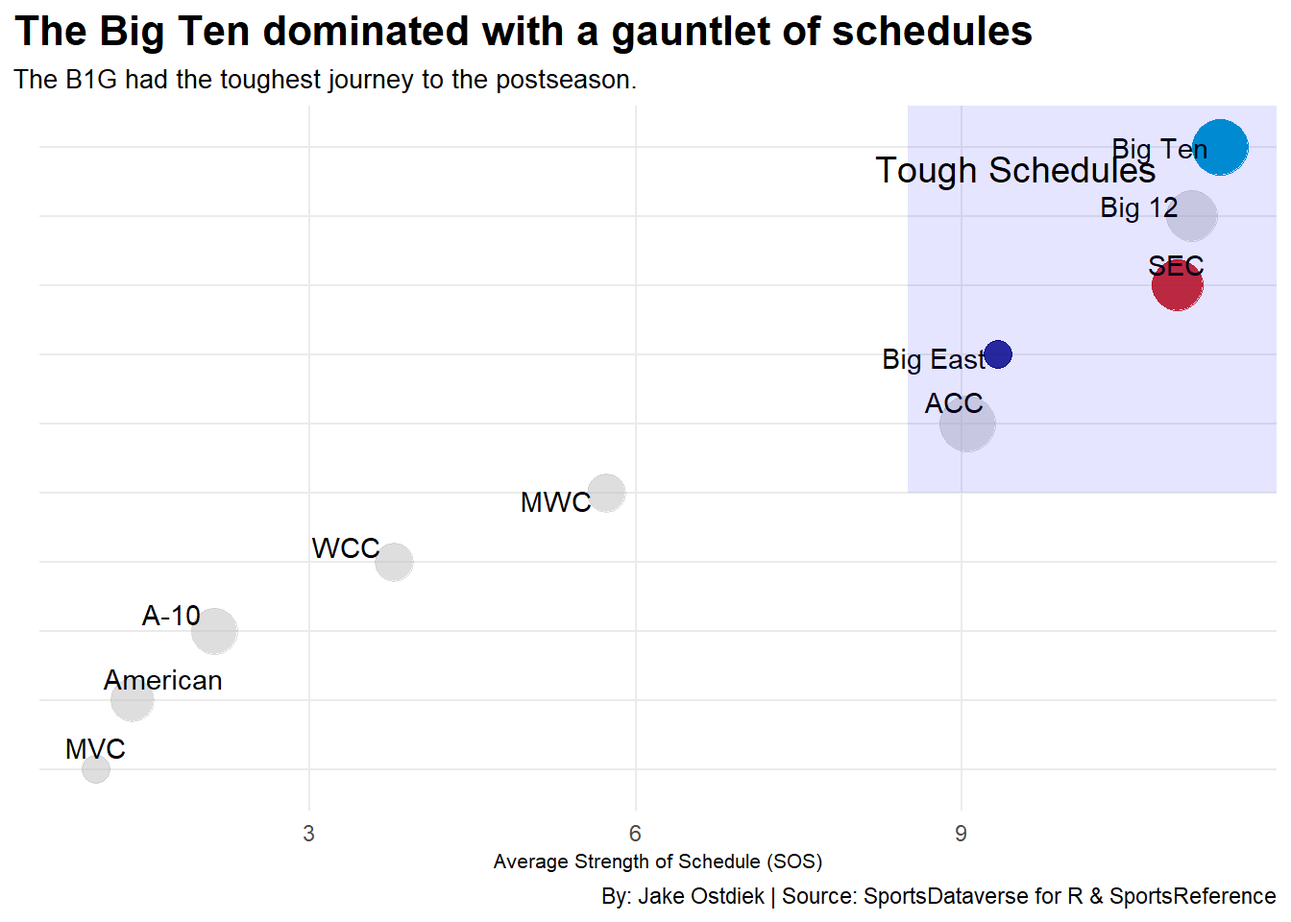
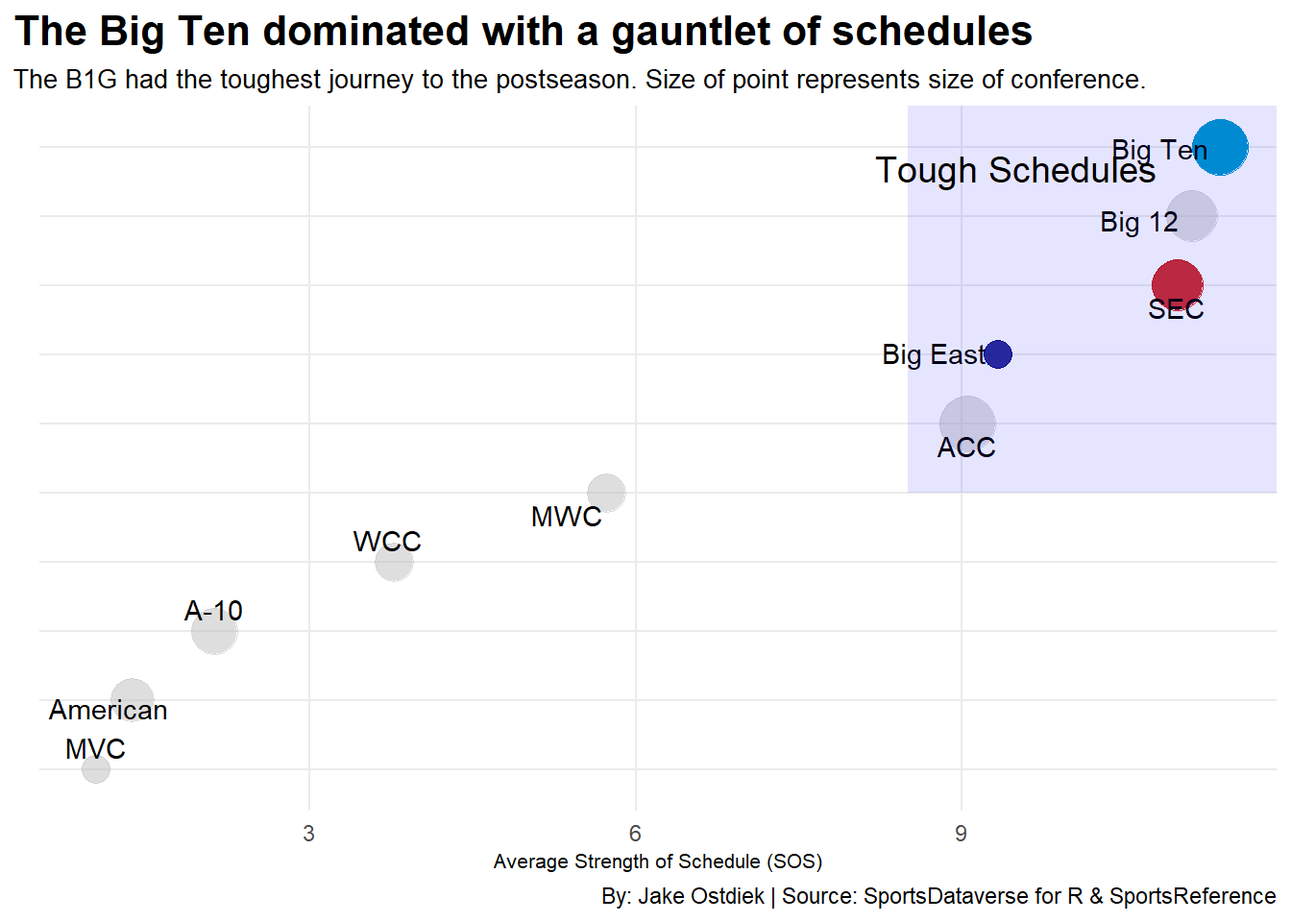
updating the charts

diff --git a/posts/big-ten-basketball-success-2026/index.html b/posts/big-ten-basketball-success-2026/index.html
@@ -555,7 +555,7 @@ pre > code.sourceCode > span > a:first-child::before { text-decoration: underlin
 <span id="cb2-64"><a href="#cb2-64" aria-hidden="true" tabindex="-1"></a>    <span class="fu">aes</span>(<span class="at">x=</span><span class="fl">9.5</span>, <span class="at">y=</span><span class="fl">9.7</span>, <span class="at">label=</span><span class="st">"Tough Schedules"</span>), <span class="at">size=</span><span class="dv">5</span>) <span class="sc">+</span></span>
 <span id="cb2-65"><a href="#cb2-65" aria-hidden="true" tabindex="-1"></a>  <span class="fu">labs</span>(</span>
 <span id="cb2-66"><a href="#cb2-66" aria-hidden="true" tabindex="-1"></a>    <span class="at">title=</span><span class="st">"The Big Ten dominated with a gauntlet of schedules"</span>,</span>
-<span id="cb2-67"><a href="#cb2-67" aria-hidden="true" tabindex="-1"></a>    <span class="at">subtitle=</span><span class="st">"The B1G had the toughest journey to the postseason."</span>,</span>
+<span id="cb2-67"><a href="#cb2-67" aria-hidden="true" tabindex="-1"></a>    <span class="at">subtitle=</span><span class="st">"The B1G had the toughest journey to the postseason. Size of point represents size of conference."</span>,</span>
 <span id="cb2-68"><a href="#cb2-68" aria-hidden="true" tabindex="-1"></a>    <span class="at">x=</span><span class="st">"Average Strength of Schedule (SOS)"</span>,</span>
 <span id="cb2-69"><a href="#cb2-69" aria-hidden="true" tabindex="-1"></a>    <span class="at">y=</span><span class="st">""</span>,</span>
 <span id="cb2-70"><a href="#cb2-70" aria-hidden="true" tabindex="-1"></a>    <span class="at">caption =</span> <span class="st">"By: Jake Ostdiek | Source: SportsDataverse for R &amp; SportsReference"</span></span>
@@ -699,7 +699,7 @@ pre > code.sourceCode > span > a:first-child::before { text-decoration: underlin
 <span id="cb3-110"><a href="#cb3-110" aria-hidden="true" tabindex="-1"></a>  <span class="fu">geom_col</span>(</span>
 <span id="cb3-111"><a href="#cb3-111" aria-hidden="true" tabindex="-1"></a>    <span class="at">data =</span> conversion_data <span class="sc">|&gt;</span> <span class="fu">drop_na</span>(conv_64_32),</span>
 <span id="cb3-112"><a href="#cb3-112" aria-hidden="true" tabindex="-1"></a>    <span class="fu">aes</span>(<span class="at">x =</span> r32_count, <span class="at">y =</span> <span class="fu">reorder</span>(Conf, r32_count)), </span>
-<span id="cb3-113"><a href="#cb3-113" aria-hidden="true" tabindex="-1"></a>    <span class="at">fill =</span> <span class="st">"grey"</span>,</span>
+<span id="cb3-113"><a href="#cb3-113" aria-hidden="true" tabindex="-1"></a>    <span class="at">fill =</span> <span class="st">"cornsilk4"</span>,</span>
 <span id="cb3-114"><a href="#cb3-114" aria-hidden="true" tabindex="-1"></a>    <span class="at">alpha =</span> <span class="fl">0.8</span>) <span class="sc">+</span></span>
 <span id="cb3-115"><a href="#cb3-115" aria-hidden="true" tabindex="-1"></a>  <span class="fu">geom_col</span>(</span>
 <span id="cb3-116"><a href="#cb3-116" aria-hidden="true" tabindex="-1"></a>    <span class="at">data =</span> conversion_data_bigten <span class="sc">|&gt;</span> <span class="fu">drop_na</span>(conv_64_32),</span>
@@ -709,87 +709,104 @@ pre > code.sourceCode > span > a:first-child::before { text-decoration: underlin
 <span id="cb3-120"><a href="#cb3-120" aria-hidden="true" tabindex="-1"></a>  <span class="fu">geom_text</span>(</span>
 <span id="cb3-121"><a href="#cb3-121" aria-hidden="true" tabindex="-1"></a>    <span class="at">data =</span> conversion_data <span class="sc">|&gt;</span> <span class="fu">drop_na</span>(conv_64_32),</span>
 <span id="cb3-122"><a href="#cb3-122" aria-hidden="true" tabindex="-1"></a>    <span class="fu">aes</span>(<span class="at">x =</span> r32_count, <span class="at">y =</span> <span class="fu">reorder</span>(Conf, r32_count),</span>
-<span id="cb3-123"><a href="#cb3-123" aria-hidden="true" tabindex="-1"></a>    <span class="at">label =</span> <span class="fu">paste0</span>(<span class="fu">round</span>(conv_64_32, <span class="dv">1</span>), <span class="st">"%"</span>)), <span class="at">hjust =</span> <span class="sc">-</span>.<span class="dv">2</span>) <span class="sc">+</span></span>
+<span id="cb3-123"><a href="#cb3-123" aria-hidden="true" tabindex="-1"></a>    <span class="at">label =</span> <span class="fu">paste0</span>(<span class="fu">round</span>(conv_64_32, <span class="dv">1</span>), <span class="st">"%"</span>)), <span class="at">hjust =</span> <span class="fl">1.2</span>, <span class="at">color =</span> <span class="st">"white"</span>, <span class="at">size =</span> <span class="dv">3</span>) <span class="sc">+</span></span>
 <span id="cb3-124"><a href="#cb3-124" aria-hidden="true" tabindex="-1"></a>  <span class="fu">theme_minimal</span>() <span class="sc">+</span></span>
 <span id="cb3-125"><a href="#cb3-125" aria-hidden="true" tabindex="-1"></a>  <span class="fu">labs</span>(</span>
 <span id="cb3-126"><a href="#cb3-126" aria-hidden="true" tabindex="-1"></a>    <span class="at">title =</span> <span class="st">"Round of 64 to Round of 32"</span>,</span>
-<span id="cb3-127"><a href="#cb3-127" aria-hidden="true" tabindex="-1"></a>    <span class="at">x =</span> <span class="st">""</span>,</span>
-<span id="cb3-128"><a href="#cb3-128" aria-hidden="true" tabindex="-1"></a>    <span class="at">y =</span> <span class="st">""</span>)</span>
-<span id="cb3-129"><a href="#cb3-129" aria-hidden="true" tabindex="-1"></a>  </span>
-<span id="cb3-130"><a href="#cb3-130" aria-hidden="true" tabindex="-1"></a></span>
-<span id="cb3-131"><a href="#cb3-131" aria-hidden="true" tabindex="-1"></a>conv2 <span class="ot">&lt;-</span> <span class="fu">ggplot</span>() <span class="sc">+</span></span>
-<span id="cb3-132"><a href="#cb3-132" aria-hidden="true" tabindex="-1"></a>  <span class="fu">geom_col</span>(</span>
-<span id="cb3-133"><a href="#cb3-133" aria-hidden="true" tabindex="-1"></a>    <span class="at">data =</span> conversion_data <span class="sc">|&gt;</span> <span class="fu">drop_na</span>(conv_32_16),</span>
-<span id="cb3-134"><a href="#cb3-134" aria-hidden="true" tabindex="-1"></a>    <span class="fu">aes</span>(<span class="at">x =</span> s16_count, <span class="at">y =</span> <span class="fu">reorder</span>(Conf, s16_count)), </span>
-<span id="cb3-135"><a href="#cb3-135" aria-hidden="true" tabindex="-1"></a>    <span class="at">fill =</span> <span class="st">"grey"</span>,</span>
-<span id="cb3-136"><a href="#cb3-136" aria-hidden="true" tabindex="-1"></a>    <span class="at">alpha =</span> <span class="fl">0.8</span>) <span class="sc">+</span></span>
-<span id="cb3-137"><a href="#cb3-137" aria-hidden="true" tabindex="-1"></a>  <span class="fu">geom_col</span>(</span>
-<span id="cb3-138"><a href="#cb3-138" aria-hidden="true" tabindex="-1"></a>    <span class="at">data =</span> conversion_data_bigten <span class="sc">|&gt;</span> <span class="fu">drop_na</span>(conv_32_16),</span>
-<span id="cb3-139"><a href="#cb3-139" aria-hidden="true" tabindex="-1"></a>    <span class="fu">aes</span>(<span class="at">x =</span> s16_count, <span class="at">y =</span> <span class="fu">reorder</span>(Conf, s16_count)),</span>
-<span id="cb3-140"><a href="#cb3-140" aria-hidden="true" tabindex="-1"></a>    <span class="at">fill =</span> <span class="st">"deepskyblue3"</span>,</span>
-<span id="cb3-141"><a href="#cb3-141" aria-hidden="true" tabindex="-1"></a>    <span class="at">alpha =</span> <span class="fl">0.8</span>) <span class="sc">+</span></span>
-<span id="cb3-142"><a href="#cb3-142" aria-hidden="true" tabindex="-1"></a>  <span class="fu">geom_text</span>(</span>
-<span id="cb3-143"><a href="#cb3-143" aria-hidden="true" tabindex="-1"></a>    <span class="at">data =</span> conversion_data <span class="sc">|&gt;</span> <span class="fu">drop_na</span>(conv_32_16),</span>
-<span id="cb3-144"><a href="#cb3-144" aria-hidden="true" tabindex="-1"></a>    <span class="fu">aes</span>(<span class="at">x =</span> s16_count, <span class="at">y =</span> <span class="fu">reorder</span>(Conf, s16_count),</span>
-<span id="cb3-145"><a href="#cb3-145" aria-hidden="true" tabindex="-1"></a>    <span class="at">label =</span> <span class="fu">paste0</span>(<span class="fu">round</span>(conv_32_16, <span class="dv">1</span>), <span class="st">"%"</span>)), <span class="at">hjust =</span> <span class="sc">-</span>.<span class="dv">2</span>) <span class="sc">+</span></span>
-<span id="cb3-146"><a href="#cb3-146" aria-hidden="true" tabindex="-1"></a>  <span class="fu">theme_minimal</span>() <span class="sc">+</span></span>
-<span id="cb3-147"><a href="#cb3-147" aria-hidden="true" tabindex="-1"></a>  <span class="fu">labs</span>(</span>
-<span id="cb3-148"><a href="#cb3-148" aria-hidden="true" tabindex="-1"></a>    <span class="at">title =</span> <span class="st">"Round of 32 to Sweet 16"</span>,</span>
-<span id="cb3-149"><a href="#cb3-149" aria-hidden="true" tabindex="-1"></a>    <span class="at">x =</span> <span class="st">""</span>,</span>
-<span id="cb3-150"><a href="#cb3-150" aria-hidden="true" tabindex="-1"></a>    <span class="at">y =</span> <span class="st">""</span>)</span>
-<span id="cb3-151"><a href="#cb3-151" aria-hidden="true" tabindex="-1"></a></span>
-<span id="cb3-152"><a href="#cb3-152" aria-hidden="true" tabindex="-1"></a></span>
-<span id="cb3-153"><a href="#cb3-153" aria-hidden="true" tabindex="-1"></a>conv3 <span class="ot">&lt;-</span> <span class="fu">ggplot</span>() <span class="sc">+</span></span>
-<span id="cb3-154"><a href="#cb3-154" aria-hidden="true" tabindex="-1"></a>  <span class="fu">geom_col</span>(</span>
-<span id="cb3-155"><a href="#cb3-155" aria-hidden="true" tabindex="-1"></a>    <span class="at">data =</span> conversion_data <span class="sc">|&gt;</span> <span class="fu">drop_na</span>(conv_16_8),</span>
-<span id="cb3-156"><a href="#cb3-156" aria-hidden="true" tabindex="-1"></a>    <span class="fu">aes</span>(<span class="at">x =</span> e8_count, <span class="at">y =</span> <span class="fu">reorder</span>(Conf, e8_count)), </span>
-<span id="cb3-157"><a href="#cb3-157" aria-hidden="true" tabindex="-1"></a>    <span class="at">fill =</span> <span class="st">"grey"</span>,</span>
-<span id="cb3-158"><a href="#cb3-158" aria-hidden="true" tabindex="-1"></a>    <span class="at">alpha =</span> <span class="fl">0.8</span>) <span class="sc">+</span></span>
-<span id="cb3-159"><a href="#cb3-159" aria-hidden="true" tabindex="-1"></a>  <span class="fu">geom_col</span>(</span>
-<span id="cb3-160"><a href="#cb3-160" aria-hidden="true" tabindex="-1"></a>    <span class="at">data =</span> conversion_data_bigten <span class="sc">|&gt;</span> <span class="fu">drop_na</span>(conv_16_8),</span>
-<span id="cb3-161"><a href="#cb3-161" aria-hidden="true" tabindex="-1"></a>    <span class="fu">aes</span>(<span class="at">x =</span> e8_count, <span class="at">y =</span> <span class="fu">reorder</span>(Conf, e8_count)),</span>
-<span id="cb3-162"><a href="#cb3-162" aria-hidden="true" tabindex="-1"></a>    <span class="at">fill =</span> <span class="st">"deepskyblue3"</span>,</span>
-<span id="cb3-163"><a href="#cb3-163" aria-hidden="true" tabindex="-1"></a>    <span class="at">alpha =</span> <span class="fl">0.8</span>) <span class="sc">+</span></span>
-<span id="cb3-164"><a href="#cb3-164" aria-hidden="true" tabindex="-1"></a>  <span class="fu">geom_text</span>(</span>
-<span id="cb3-165"><a href="#cb3-165" aria-hidden="true" tabindex="-1"></a>    <span class="at">data =</span> conversion_data <span class="sc">|&gt;</span> <span class="fu">drop_na</span>(conv_16_8),</span>
-<span id="cb3-166"><a href="#cb3-166" aria-hidden="true" tabindex="-1"></a>    <span class="fu">aes</span>(<span class="at">x =</span> e8_count, <span class="at">y =</span> <span class="fu">reorder</span>(Conf, e8_count),</span>
-<span id="cb3-167"><a href="#cb3-167" aria-hidden="true" tabindex="-1"></a>    <span class="at">label =</span> <span class="fu">paste0</span>(<span class="fu">round</span>(conv_16_8, <span class="dv">1</span>), <span class="st">"%"</span>)), <span class="at">hjust =</span> <span class="sc">-</span>.<span class="dv">2</span>) <span class="sc">+</span></span>
-<span id="cb3-168"><a href="#cb3-168" aria-hidden="true" tabindex="-1"></a>  <span class="fu">theme_minimal</span>() <span class="sc">+</span></span>
-<span id="cb3-169"><a href="#cb3-169" aria-hidden="true" tabindex="-1"></a>  <span class="fu">labs</span>(</span>
-<span id="cb3-170"><a href="#cb3-170" aria-hidden="true" tabindex="-1"></a>    <span class="at">title =</span> <span class="st">"Sweet 16 to Elite Eight"</span>,</span>
-<span id="cb3-171"><a href="#cb3-171" aria-hidden="true" tabindex="-1"></a>    <span class="at">x =</span> <span class="st">""</span>,</span>
-<span id="cb3-172"><a href="#cb3-172" aria-hidden="true" tabindex="-1"></a>    <span class="at">y =</span> <span class="st">""</span>)</span>
-<span id="cb3-173"><a href="#cb3-173" aria-hidden="true" tabindex="-1"></a></span>
-<span id="cb3-174"><a href="#cb3-174" aria-hidden="true" tabindex="-1"></a></span>
-<span id="cb3-175"><a href="#cb3-175" aria-hidden="true" tabindex="-1"></a>conv4 <span class="ot">&lt;-</span> <span class="fu">ggplot</span>() <span class="sc">+</span></span>
-<span id="cb3-176"><a href="#cb3-176" aria-hidden="true" tabindex="-1"></a>  <span class="fu">geom_col</span>(</span>
-<span id="cb3-177"><a href="#cb3-177" aria-hidden="true" tabindex="-1"></a>    <span class="at">data =</span> conversion_data <span class="sc">|&gt;</span> <span class="fu">drop_na</span>(conv_8_4),</span>
-<span id="cb3-178"><a href="#cb3-178" aria-hidden="true" tabindex="-1"></a>    <span class="fu">aes</span>(<span class="at">x =</span> f4_count, <span class="at">y =</span> <span class="fu">reorder</span>(Conf, f4_count)),</span>
-<span id="cb3-179"><a href="#cb3-179" aria-hidden="true" tabindex="-1"></a>    <span class="at">fill =</span> <span class="st">"grey"</span>,</span>
-<span id="cb3-180"><a href="#cb3-180" aria-hidden="true" tabindex="-1"></a>    <span class="at">alpha =</span> <span class="fl">0.8</span>) <span class="sc">+</span></span>
-<span id="cb3-181"><a href="#cb3-181" aria-hidden="true" tabindex="-1"></a>  <span class="fu">geom_col</span>(</span>
-<span id="cb3-182"><a href="#cb3-182" aria-hidden="true" tabindex="-1"></a>    <span class="at">data =</span> conversion_data_bigten <span class="sc">|&gt;</span> <span class="fu">drop_na</span>(conv_8_4),</span>
-<span id="cb3-183"><a href="#cb3-183" aria-hidden="true" tabindex="-1"></a>    <span class="fu">aes</span>(<span class="at">x =</span> f4_count, <span class="at">y =</span> <span class="fu">reorder</span>(Conf, f4_count)),</span>
-<span id="cb3-184"><a href="#cb3-184" aria-hidden="true" tabindex="-1"></a>    <span class="at">fill =</span> <span class="st">"deepskyblue3"</span>,</span>
-<span id="cb3-185"><a href="#cb3-185" aria-hidden="true" tabindex="-1"></a>    <span class="at">alpha =</span> <span class="fl">0.8</span>) <span class="sc">+</span></span>
-<span id="cb3-186"><a href="#cb3-186" aria-hidden="true" tabindex="-1"></a>  <span class="fu">geom_text</span>(</span>
-<span id="cb3-187"><a href="#cb3-187" aria-hidden="true" tabindex="-1"></a>    <span class="at">data =</span> conversion_data <span class="sc">|&gt;</span> <span class="fu">drop_na</span>(conv_8_4),</span>
-<span id="cb3-188"><a href="#cb3-188" aria-hidden="true" tabindex="-1"></a>    <span class="fu">aes</span>(<span class="at">x =</span> f4_count, <span class="at">y =</span> <span class="fu">reorder</span>(Conf, f4_count),</span>
-<span id="cb3-189"><a href="#cb3-189" aria-hidden="true" tabindex="-1"></a>    <span class="at">label =</span> <span class="fu">paste0</span>(<span class="fu">round</span>(conv_8_4, <span class="dv">1</span>), <span class="st">"%"</span>)), <span class="at">hjust =</span> <span class="sc">-</span>.<span class="dv">2</span>) <span class="sc">+</span></span>
-<span id="cb3-190"><a href="#cb3-190" aria-hidden="true" tabindex="-1"></a>  <span class="fu">theme_minimal</span>() <span class="sc">+</span></span>
-<span id="cb3-191"><a href="#cb3-191" aria-hidden="true" tabindex="-1"></a>  <span class="fu">labs</span>(</span>
-<span id="cb3-192"><a href="#cb3-192" aria-hidden="true" tabindex="-1"></a>    <span class="at">title =</span> <span class="st">"Elite Eight to Final Four"</span>,</span>
-<span id="cb3-193"><a href="#cb3-193" aria-hidden="true" tabindex="-1"></a>    <span class="at">x =</span> <span class="st">""</span>,</span>
-<span id="cb3-194"><a href="#cb3-194" aria-hidden="true" tabindex="-1"></a>    <span class="at">y =</span> <span class="st">""</span>)</span>
-<span id="cb3-195"><a href="#cb3-195" aria-hidden="true" tabindex="-1"></a></span>
-<span id="cb3-196"><a href="#cb3-196" aria-hidden="true" tabindex="-1"></a></span>
-<span id="cb3-197"><a href="#cb3-197" aria-hidden="true" tabindex="-1"></a></span>
-<span id="cb3-198"><a href="#cb3-198" aria-hidden="true" tabindex="-1"></a>(conv1 <span class="sc">|</span> conv2) <span class="sc">/</span> (conv3 <span class="sc">|</span> conv4) <span class="sc">+</span></span>
-<span id="cb3-199"><a href="#cb3-199" aria-hidden="true" tabindex="-1"></a>  <span class="fu">plot_annotation</span>(</span>
-<span id="cb3-200"><a href="#cb3-200" aria-hidden="true" tabindex="-1"></a>    <span class="at">title =</span> <span class="st">"Tournament Conversion Rates by Conference"</span>,</span>
-<span id="cb3-201"><a href="#cb3-201" aria-hidden="true" tabindex="-1"></a>    <span class="at">caption =</span> <span class="st">"By: Jake Ostdiek | Source: SportsDataverse for R &amp; SportsReference"</span>,</span>
-<span id="cb3-202"><a href="#cb3-202" aria-hidden="true" tabindex="-1"></a>    <span class="at">theme =</span> <span class="fu">theme</span>(<span class="at">plot.title =</span> <span class="fu">element_text</span>(<span class="at">size =</span> <span class="dv">18</span>, <span class="at">face =</span> <span class="st">"bold"</span>, <span class="at">hjust =</span> <span class="fl">0.5</span>))</span>
-<span id="cb3-203"><a href="#cb3-203" aria-hidden="true" tabindex="-1"></a>  )</span></code></pre></div><button title="Copy to Clipboard" class="code-copy-button"><i class="bi"></i></button></div>
+<span id="cb3-127"><a href="#cb3-127" aria-hidden="true" tabindex="-1"></a>    <span class="at">x =</span> <span class="st">"Number of Teams Advanced"</span>,</span>
+<span id="cb3-128"><a href="#cb3-128" aria-hidden="true" tabindex="-1"></a>    <span class="at">y =</span> <span class="st">""</span>) <span class="sc">+</span></span>
+<span id="cb3-129"><a href="#cb3-129" aria-hidden="true" tabindex="-1"></a>  <span class="fu">theme</span>(</span>
+<span id="cb3-130"><a href="#cb3-130" aria-hidden="true" tabindex="-1"></a>    <span class="at">panel.grid.major.y =</span> <span class="fu">element_blank</span>(),</span>
+<span id="cb3-131"><a href="#cb3-131" aria-hidden="true" tabindex="-1"></a>    <span class="at">panel.grid.minor =</span> <span class="fu">element_blank</span>()</span>
+<span id="cb3-132"><a href="#cb3-132" aria-hidden="true" tabindex="-1"></a>  )</span>
+<span id="cb3-133"><a href="#cb3-133" aria-hidden="true" tabindex="-1"></a></span>
+<span id="cb3-134"><a href="#cb3-134" aria-hidden="true" tabindex="-1"></a></span>
+<span id="cb3-135"><a href="#cb3-135" aria-hidden="true" tabindex="-1"></a>conv2 <span class="ot">&lt;-</span> <span class="fu">ggplot</span>() <span class="sc">+</span></span>
+<span id="cb3-136"><a href="#cb3-136" aria-hidden="true" tabindex="-1"></a>  <span class="fu">geom_col</span>(</span>
+<span id="cb3-137"><a href="#cb3-137" aria-hidden="true" tabindex="-1"></a>    <span class="at">data =</span> conversion_data <span class="sc">|&gt;</span> <span class="fu">drop_na</span>(conv_32_16),</span>
+<span id="cb3-138"><a href="#cb3-138" aria-hidden="true" tabindex="-1"></a>    <span class="fu">aes</span>(<span class="at">x =</span> s16_count, <span class="at">y =</span> <span class="fu">reorder</span>(Conf, s16_count)), </span>
+<span id="cb3-139"><a href="#cb3-139" aria-hidden="true" tabindex="-1"></a>    <span class="at">fill =</span> <span class="st">"cornsilk4"</span>,</span>
+<span id="cb3-140"><a href="#cb3-140" aria-hidden="true" tabindex="-1"></a>    <span class="at">alpha =</span> <span class="fl">0.8</span>) <span class="sc">+</span></span>
+<span id="cb3-141"><a href="#cb3-141" aria-hidden="true" tabindex="-1"></a>  <span class="fu">geom_col</span>(</span>
+<span id="cb3-142"><a href="#cb3-142" aria-hidden="true" tabindex="-1"></a>    <span class="at">data =</span> conversion_data_bigten <span class="sc">|&gt;</span> <span class="fu">drop_na</span>(conv_32_16),</span>
+<span id="cb3-143"><a href="#cb3-143" aria-hidden="true" tabindex="-1"></a>    <span class="fu">aes</span>(<span class="at">x =</span> s16_count, <span class="at">y =</span> <span class="fu">reorder</span>(Conf, s16_count)),</span>
+<span id="cb3-144"><a href="#cb3-144" aria-hidden="true" tabindex="-1"></a>    <span class="at">fill =</span> <span class="st">"deepskyblue3"</span>,</span>
+<span id="cb3-145"><a href="#cb3-145" aria-hidden="true" tabindex="-1"></a>    <span class="at">alpha =</span> <span class="fl">0.8</span>) <span class="sc">+</span></span>
+<span id="cb3-146"><a href="#cb3-146" aria-hidden="true" tabindex="-1"></a>  <span class="fu">geom_text</span>(</span>
+<span id="cb3-147"><a href="#cb3-147" aria-hidden="true" tabindex="-1"></a>    <span class="at">data =</span> conversion_data <span class="sc">|&gt;</span> <span class="fu">drop_na</span>(conv_32_16),</span>
+<span id="cb3-148"><a href="#cb3-148" aria-hidden="true" tabindex="-1"></a>    <span class="fu">aes</span>(<span class="at">x =</span> s16_count, <span class="at">y =</span> <span class="fu">reorder</span>(Conf, s16_count),</span>
+<span id="cb3-149"><a href="#cb3-149" aria-hidden="true" tabindex="-1"></a>    <span class="at">label =</span> <span class="fu">paste0</span>(<span class="fu">round</span>(conv_32_16, <span class="dv">1</span>), <span class="st">"%"</span>)), <span class="at">hjust =</span> <span class="fl">1.2</span>, <span class="at">color =</span> <span class="st">"white"</span>) <span class="sc">+</span></span>
+<span id="cb3-150"><a href="#cb3-150" aria-hidden="true" tabindex="-1"></a>  <span class="fu">theme_minimal</span>() <span class="sc">+</span></span>
+<span id="cb3-151"><a href="#cb3-151" aria-hidden="true" tabindex="-1"></a>  <span class="fu">labs</span>(</span>
+<span id="cb3-152"><a href="#cb3-152" aria-hidden="true" tabindex="-1"></a>    <span class="at">title =</span> <span class="st">"Round of 32 to Sweet 16"</span>,</span>
+<span id="cb3-153"><a href="#cb3-153" aria-hidden="true" tabindex="-1"></a>    <span class="at">x =</span> <span class="st">"Number of Teams Advanced"</span>,</span>
+<span id="cb3-154"><a href="#cb3-154" aria-hidden="true" tabindex="-1"></a>    <span class="at">y =</span> <span class="st">""</span>) <span class="sc">+</span></span>
+<span id="cb3-155"><a href="#cb3-155" aria-hidden="true" tabindex="-1"></a>  <span class="fu">theme</span>(</span>
+<span id="cb3-156"><a href="#cb3-156" aria-hidden="true" tabindex="-1"></a>    <span class="at">panel.grid.major.y =</span> <span class="fu">element_blank</span>(),</span>
+<span id="cb3-157"><a href="#cb3-157" aria-hidden="true" tabindex="-1"></a>    <span class="at">panel.grid.minor =</span> <span class="fu">element_blank</span>()</span>
+<span id="cb3-158"><a href="#cb3-158" aria-hidden="true" tabindex="-1"></a>  )</span>
+<span id="cb3-159"><a href="#cb3-159" aria-hidden="true" tabindex="-1"></a></span>
+<span id="cb3-160"><a href="#cb3-160" aria-hidden="true" tabindex="-1"></a></span>
+<span id="cb3-161"><a href="#cb3-161" aria-hidden="true" tabindex="-1"></a>conv3 <span class="ot">&lt;-</span> <span class="fu">ggplot</span>() <span class="sc">+</span></span>
+<span id="cb3-162"><a href="#cb3-162" aria-hidden="true" tabindex="-1"></a>  <span class="fu">geom_col</span>(</span>
+<span id="cb3-163"><a href="#cb3-163" aria-hidden="true" tabindex="-1"></a>    <span class="at">data =</span> conversion_data <span class="sc">|&gt;</span> <span class="fu">drop_na</span>(conv_16_8),</span>
+<span id="cb3-164"><a href="#cb3-164" aria-hidden="true" tabindex="-1"></a>    <span class="fu">aes</span>(<span class="at">x =</span> e8_count, <span class="at">y =</span> <span class="fu">reorder</span>(Conf, e8_count)), </span>
+<span id="cb3-165"><a href="#cb3-165" aria-hidden="true" tabindex="-1"></a>    <span class="at">fill =</span> <span class="st">"cornsilk4"</span>,</span>
+<span id="cb3-166"><a href="#cb3-166" aria-hidden="true" tabindex="-1"></a>    <span class="at">alpha =</span> <span class="fl">0.8</span>) <span class="sc">+</span></span>
+<span id="cb3-167"><a href="#cb3-167" aria-hidden="true" tabindex="-1"></a>  <span class="fu">geom_col</span>(</span>
+<span id="cb3-168"><a href="#cb3-168" aria-hidden="true" tabindex="-1"></a>    <span class="at">data =</span> conversion_data_bigten <span class="sc">|&gt;</span> <span class="fu">drop_na</span>(conv_16_8),</span>
+<span id="cb3-169"><a href="#cb3-169" aria-hidden="true" tabindex="-1"></a>    <span class="fu">aes</span>(<span class="at">x =</span> e8_count, <span class="at">y =</span> <span class="fu">reorder</span>(Conf, e8_count)),</span>
+<span id="cb3-170"><a href="#cb3-170" aria-hidden="true" tabindex="-1"></a>    <span class="at">fill =</span> <span class="st">"deepskyblue3"</span>,</span>
+<span id="cb3-171"><a href="#cb3-171" aria-hidden="true" tabindex="-1"></a>    <span class="at">alpha =</span> <span class="fl">0.8</span>) <span class="sc">+</span></span>
+<span id="cb3-172"><a href="#cb3-172" aria-hidden="true" tabindex="-1"></a>  <span class="fu">geom_text</span>(</span>
+<span id="cb3-173"><a href="#cb3-173" aria-hidden="true" tabindex="-1"></a>    <span class="at">data =</span> conversion_data <span class="sc">|&gt;</span> <span class="fu">drop_na</span>(conv_16_8),</span>
+<span id="cb3-174"><a href="#cb3-174" aria-hidden="true" tabindex="-1"></a>    <span class="fu">aes</span>(<span class="at">x =</span> e8_count, <span class="at">y =</span> <span class="fu">reorder</span>(Conf, e8_count),</span>
+<span id="cb3-175"><a href="#cb3-175" aria-hidden="true" tabindex="-1"></a>    <span class="at">label =</span> <span class="fu">paste0</span>(<span class="fu">round</span>(conv_16_8, <span class="dv">1</span>), <span class="st">"%"</span>)), <span class="at">hjust =</span> <span class="fl">1.2</span>, <span class="at">color =</span> <span class="st">"white"</span>) <span class="sc">+</span></span>
+<span id="cb3-176"><a href="#cb3-176" aria-hidden="true" tabindex="-1"></a>  <span class="fu">theme_minimal</span>() <span class="sc">+</span></span>
+<span id="cb3-177"><a href="#cb3-177" aria-hidden="true" tabindex="-1"></a>  <span class="fu">labs</span>(</span>
+<span id="cb3-178"><a href="#cb3-178" aria-hidden="true" tabindex="-1"></a>    <span class="at">title =</span> <span class="st">"Sweet 16 to Elite Eight"</span>,</span>
+<span id="cb3-179"><a href="#cb3-179" aria-hidden="true" tabindex="-1"></a>    <span class="at">x =</span> <span class="st">"Number of Teams Advanced"</span>,</span>
+<span id="cb3-180"><a href="#cb3-180" aria-hidden="true" tabindex="-1"></a>    <span class="at">y =</span> <span class="st">""</span>) <span class="sc">+</span></span>
+<span id="cb3-181"><a href="#cb3-181" aria-hidden="true" tabindex="-1"></a>  <span class="fu">theme</span>(</span>
+<span id="cb3-182"><a href="#cb3-182" aria-hidden="true" tabindex="-1"></a>    <span class="at">panel.grid.major.y =</span> <span class="fu">element_blank</span>(),</span>
+<span id="cb3-183"><a href="#cb3-183" aria-hidden="true" tabindex="-1"></a>    <span class="at">panel.grid.minor =</span> <span class="fu">element_blank</span>()</span>
+<span id="cb3-184"><a href="#cb3-184" aria-hidden="true" tabindex="-1"></a>  )</span>
+<span id="cb3-185"><a href="#cb3-185" aria-hidden="true" tabindex="-1"></a></span>
+<span id="cb3-186"><a href="#cb3-186" aria-hidden="true" tabindex="-1"></a></span>
+<span id="cb3-187"><a href="#cb3-187" aria-hidden="true" tabindex="-1"></a>conv4 <span class="ot">&lt;-</span> <span class="fu">ggplot</span>() <span class="sc">+</span></span>
+<span id="cb3-188"><a href="#cb3-188" aria-hidden="true" tabindex="-1"></a>  <span class="fu">geom_col</span>(</span>
+<span id="cb3-189"><a href="#cb3-189" aria-hidden="true" tabindex="-1"></a>    <span class="at">data =</span> conversion_data <span class="sc">|&gt;</span> <span class="fu">drop_na</span>(conv_8_4),</span>
+<span id="cb3-190"><a href="#cb3-190" aria-hidden="true" tabindex="-1"></a>    <span class="fu">aes</span>(<span class="at">x =</span> f4_count, <span class="at">y =</span> <span class="fu">reorder</span>(Conf, f4_count)),</span>
+<span id="cb3-191"><a href="#cb3-191" aria-hidden="true" tabindex="-1"></a>    <span class="at">fill =</span> <span class="st">"cornsilk4"</span>,</span>
+<span id="cb3-192"><a href="#cb3-192" aria-hidden="true" tabindex="-1"></a>    <span class="at">alpha =</span> <span class="fl">0.8</span>) <span class="sc">+</span></span>
+<span id="cb3-193"><a href="#cb3-193" aria-hidden="true" tabindex="-1"></a>  <span class="fu">geom_col</span>(</span>
+<span id="cb3-194"><a href="#cb3-194" aria-hidden="true" tabindex="-1"></a>    <span class="at">data =</span> conversion_data_bigten <span class="sc">|&gt;</span> <span class="fu">drop_na</span>(conv_8_4),</span>
+<span id="cb3-195"><a href="#cb3-195" aria-hidden="true" tabindex="-1"></a>    <span class="fu">aes</span>(<span class="at">x =</span> f4_count, <span class="at">y =</span> <span class="fu">reorder</span>(Conf, f4_count)),</span>
+<span id="cb3-196"><a href="#cb3-196" aria-hidden="true" tabindex="-1"></a>    <span class="at">fill =</span> <span class="st">"deepskyblue3"</span>,</span>
+<span id="cb3-197"><a href="#cb3-197" aria-hidden="true" tabindex="-1"></a>    <span class="at">alpha =</span> <span class="fl">0.8</span>) <span class="sc">+</span></span>
+<span id="cb3-198"><a href="#cb3-198" aria-hidden="true" tabindex="-1"></a>  <span class="fu">geom_text</span>(</span>
+<span id="cb3-199"><a href="#cb3-199" aria-hidden="true" tabindex="-1"></a>    <span class="at">data =</span> conversion_data <span class="sc">|&gt;</span> <span class="fu">drop_na</span>(conv_8_4),</span>
+<span id="cb3-200"><a href="#cb3-200" aria-hidden="true" tabindex="-1"></a>    <span class="fu">aes</span>(<span class="at">x =</span> f4_count, <span class="at">y =</span> <span class="fu">reorder</span>(Conf, f4_count),</span>
+<span id="cb3-201"><a href="#cb3-201" aria-hidden="true" tabindex="-1"></a>    <span class="at">label =</span> <span class="fu">paste0</span>(<span class="fu">round</span>(conv_8_4, <span class="dv">1</span>), <span class="st">"%"</span>)), <span class="at">hjust =</span> <span class="fl">1.2</span>, <span class="at">color =</span> <span class="st">"white"</span>) <span class="sc">+</span></span>
+<span id="cb3-202"><a href="#cb3-202" aria-hidden="true" tabindex="-1"></a>  <span class="fu">scale_x_continuous</span>(<span class="at">breaks =</span> <span class="fu">c</span>(<span class="dv">0</span>, <span class="dv">1</span>, <span class="dv">2</span>)) <span class="sc">+</span></span>
+<span id="cb3-203"><a href="#cb3-203" aria-hidden="true" tabindex="-1"></a>  <span class="fu">theme_minimal</span>() <span class="sc">+</span></span>
+<span id="cb3-204"><a href="#cb3-204" aria-hidden="true" tabindex="-1"></a>  <span class="fu">labs</span>(</span>
+<span id="cb3-205"><a href="#cb3-205" aria-hidden="true" tabindex="-1"></a>    <span class="at">title =</span> <span class="st">"Elite Eight to Final Four"</span>,</span>
+<span id="cb3-206"><a href="#cb3-206" aria-hidden="true" tabindex="-1"></a>    <span class="at">x =</span> <span class="st">"Number of Teams Advanced"</span>,</span>
+<span id="cb3-207"><a href="#cb3-207" aria-hidden="true" tabindex="-1"></a>    <span class="at">y =</span> <span class="st">""</span>) <span class="sc">+</span></span>
+<span id="cb3-208"><a href="#cb3-208" aria-hidden="true" tabindex="-1"></a>  <span class="fu">theme</span>(</span>
+<span id="cb3-209"><a href="#cb3-209" aria-hidden="true" tabindex="-1"></a>    <span class="at">panel.grid.major.y =</span> <span class="fu">element_blank</span>(),</span>
+<span id="cb3-210"><a href="#cb3-210" aria-hidden="true" tabindex="-1"></a>    <span class="at">panel.grid.minor =</span> <span class="fu">element_blank</span>()</span>
+<span id="cb3-211"><a href="#cb3-211" aria-hidden="true" tabindex="-1"></a>  )</span>
+<span id="cb3-212"><a href="#cb3-212" aria-hidden="true" tabindex="-1"></a></span>
+<span id="cb3-213"><a href="#cb3-213" aria-hidden="true" tabindex="-1"></a></span>
+<span id="cb3-214"><a href="#cb3-214" aria-hidden="true" tabindex="-1"></a></span>
+<span id="cb3-215"><a href="#cb3-215" aria-hidden="true" tabindex="-1"></a>(conv1 <span class="sc">|</span> conv2) <span class="sc">/</span> (conv3 <span class="sc">|</span> conv4) <span class="sc">+</span></span>
+<span id="cb3-216"><a href="#cb3-216" aria-hidden="true" tabindex="-1"></a>  <span class="fu">plot_annotation</span>(</span>
+<span id="cb3-217"><a href="#cb3-217" aria-hidden="true" tabindex="-1"></a>    <span class="at">title =</span> <span class="st">"Tournament Conversion Rates by Conference"</span>,</span>
+<span id="cb3-218"><a href="#cb3-218" aria-hidden="true" tabindex="-1"></a>    <span class="at">caption =</span> <span class="st">"By: Jake Ostdiek | Source: SportsDataverse for R &amp; SportsReference"</span>,</span>
+<span id="cb3-219"><a href="#cb3-219" aria-hidden="true" tabindex="-1"></a>    <span class="at">theme =</span> <span class="fu">theme</span>(<span class="at">plot.title =</span> <span class="fu">element_text</span>(<span class="at">size =</span> <span class="dv">18</span>, <span class="at">face =</span> <span class="st">"bold"</span>, <span class="at">hjust =</span> <span class="fl">0.5</span>))</span>
+<span id="cb3-220"><a href="#cb3-220" aria-hidden="true" tabindex="-1"></a>  )</span></code></pre></div><button title="Copy to Clipboard" class="code-copy-button"><i class="bi"></i></button></div>
 </details>
 <div class="cell-output-display">
 <div>

diff --git a/index.html b/index.html
@@ -361,7 +361,7 @@ window.Quarto = {
 <!-- margin-sidebar -->
     <div id="quarto-margin-sidebar" class="sidebar margin-sidebar">
         
-    <h5 class="quarto-listing-category-title">Categories</h5><div class="quarto-listing-category category-default"><div class="category" data-category="">All <span class="quarto-category-count">(2)</span></div><div class="category" data-category="YmFza2V0YmFsbA==">basketball <span class="quarto-category-count">(2)</span></div><div class="category" data-category="YmlndGVu">bigten <span class="quarto-category-count">(2)</span></div><div class="category" data-category="bmNhYQ==">ncaa <span class="quarto-category-count">(2)</span></div></div></div>
+    <h5 class="quarto-listing-category-title">Categories</h5><div class="quarto-listing-category category-default"><div class="category" data-category="">All <span class="quarto-category-count">(1)</span></div><div class="category" data-category="YmFza2V0YmFsbA==">basketball <span class="quarto-category-count">(1)</span></div><div class="category" data-category="YmlndGVu">bigten <span class="quarto-category-count">(1)</span></div><div class="category" data-category="bmNhYQ==">ncaa <span class="quarto-category-count">(1)</span></div></div></div>
 <!-- main -->
 <main class="content quarto-banner-title-block column-page-left" id="quarto-document-content">
 
@@ -376,41 +376,7 @@ window.Quarto = {
 
 <div class="quarto-listing quarto-listing-container-default" id="listing-listing">
 <div class="list quarto-listing-default">
-<div class="quarto-post image-right" data-index="0" data-categories="bmNhYSUyQ2Jhc2tldGJhbGwlMkNiaWd0ZW4=" data-listing-date-sort="1775797200000" data-listing-file-modified-sort="1775759556455" data-listing-date-modified-sort="NaN" data-listing-reading-time-sort="14" data-listing-word-count-sort="2767">
-<div class="thumbnail"><a href="./posts/big-ten-basketball-success-2026/index.html" class="no-external">
-
-<img loading="lazy" src="./posts/big-ten-basketball-success-2026/image.png" class="thumbnail-image">
-
-</a></div>
-<div class="body">
-<h3 class="no-anchor listing-title">
-<a href="./posts/big-ten-basketball-success-2026/index.html" class="no-external">2026 B1G Basketball Sets a Standard</a>
-</h3>
-<div class="listing-categories">
-
-<div class="listing-category" onclick="window.quartoListingCategory('bmNhYQ=='); return false;">ncaa</div>
-
-<div class="listing-category" onclick="window.quartoListingCategory('YmFza2V0YmFsbA=='); return false;">basketball</div>
-
-<div class="listing-category" onclick="window.quartoListingCategory('YmlndGVu'); return false;">bigten</div>
-
-</div>
-<div class="delink listing-description"><a href="./posts/big-ten-basketball-success-2026/index.html" class="no-external">
-Every March the same debate dominates the college sports scene, which conference is truly the best? The Big 12 consistently has a gauntlet of a regular season, and the SEC…
-</a></div>
-</div>
-<div class="metadata">
-<a href="./posts/big-ten-basketball-success-2026/index.html" class="no-external">
-<div class="listing-date">
-Apr 10, 2026
-</div>
-<div class="listing-author">
-Jake Ostdiek
-</div>
-</a>
-</div>
-</div>
-<div class="quarto-post image-right" data-index="1" data-categories="bmNhYSUyQ2Jhc2tldGJhbGwlMkNiaWd0ZW4=" data-listing-date-sort="1775797200000" data-listing-file-modified-sort="1775759649736" data-listing-date-modified-sort="NaN" data-listing-reading-time-sort="14" data-listing-word-count-sort="2767">
+<div class="quarto-post image-right" data-index="0" data-categories="bmNhYSUyQ2Jhc2tldGJhbGwlMkNiaWd0ZW4=" data-listing-date-sort="1775797200000" data-listing-file-modified-sort="1775773842597" data-listing-date-modified-sort="NaN" data-listing-reading-time-sort="15" data-listing-word-count-sort="2873">
 <div class="thumbnail"><a href="./posts/big-ten-basketball-success-2026/index.html" class="no-external">
 
 <img loading="lazy" src="./posts/big-ten-basketball-success-2026/image.png" class="thumbnail-image">
